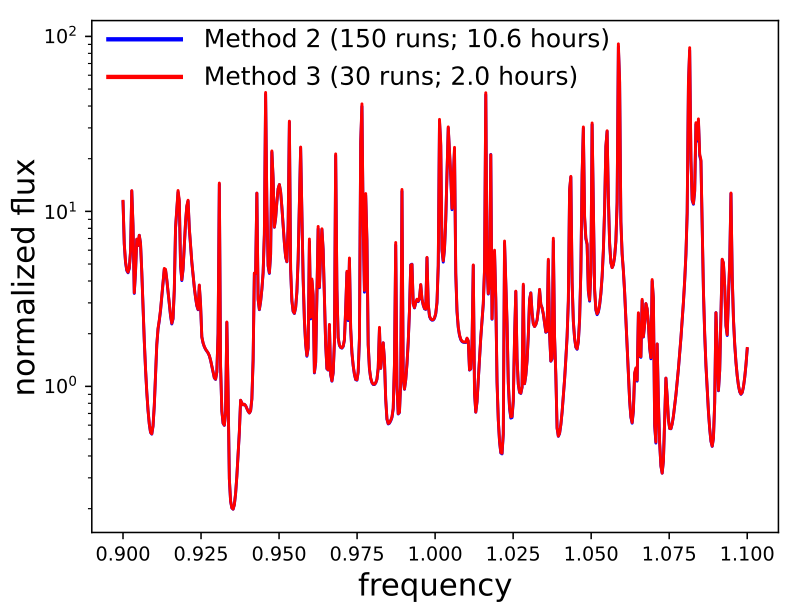
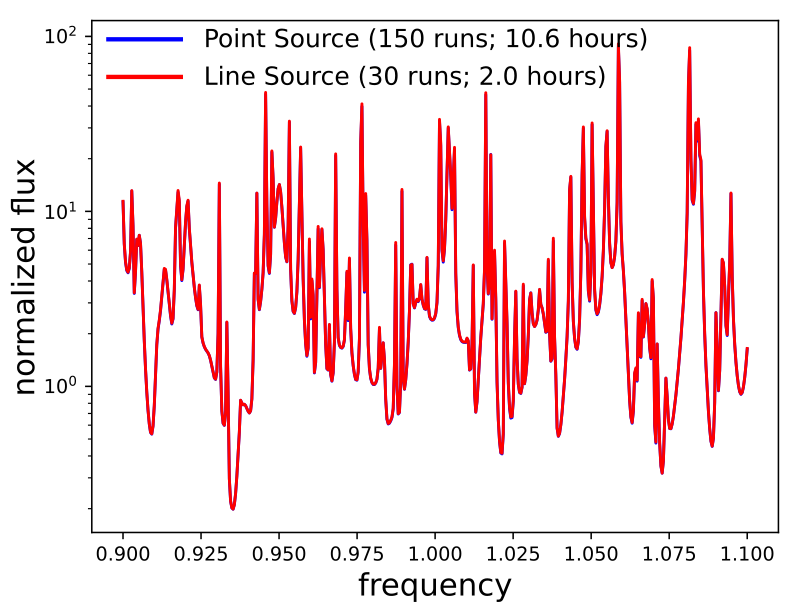
minor updates to docs

Changed region(s): [[0.2403, 0.0297, 0.811, 0.1485]]

diff --git a/doc/docs/FAQ.md b/doc/docs/FAQ.md
@@ -77,7 +77,7 @@ If you are worried about this, then you are probably setting up your calculation
 
 ### How is the source current defined?
 
-The source current in Meep is defined as a [free charge current **J** in Maxwell's equations](Introduction.md#maxwells-equations). Meep does not simulate the driving force behind this free charge current, nor does the current have to be placed in a conductor. Specifying a current means that somehow you are shaking a [charge](https://en.wikipedia.org/wiki/Electric_charge) at that point (by whatever means, Meep doesn't care) and you want to know the [resulting fields](#how-does-the-current-amplitude-relate-to-the-resulting-field-amplitude). In a linear system, multiplying J by 2 results in multiplying the fields by 2.
+The source current in Meep is defined as a [free charge current $\mathcal{J}$ in Maxwell's equations](Introduction.md#maxwells-equations). Meep does not simulate the driving force behind this free charge current, nor does the current have to be placed in a conductor. Specifying a current means that somehow you are shaking a [charge](https://en.wikipedia.org/wiki/Electric_charge) at that point (by whatever means, Meep doesn't care) and you want to know the [resulting fields](#how-does-the-current-amplitude-relate-to-the-resulting-field-amplitude). In a linear system, multiplying $\mathcal{J}$ by 2 results in multiplying the fields by 2.
 
 In the [interface](Python_User_Interface.md#source), the source currents are labeled $E_x$ or $H_y$ etc. according to what components of the electric/magnetic fields they correspond to.
 
@@ -223,13 +223,13 @@ Note: any real-valued signal consists of both positive and negative frequency co
 
 ### How do I compute the effective index of an eigenmode of a lossy waveguide?
 
-To compute the [effective index](https://www.rp-photonics.com/effective_refractive_index.html), you will need to first compute the *complex* ω (the loss in time) for a *real* β (the propagation constant) and then convert this quantity into a loss in space (*complex* β at a *real* ω) by dividing by the group velocity v<sub>g</sub>. This procedure is described in more detail below.
+To compute the [effective index](https://www.rp-photonics.com/effective_refractive_index.html), you will need to first compute the *complex* $\omega$ (the loss in time) for a *real* $\beta$ (the propagation constant) and then convert this quantity into a loss in space (*complex* $\beta$ at a *real* $\omega$) by dividing by the group velocity $v_g$. This procedure is described in more detail below.
 
-To obtain the loss in time, you make your computational cell a cross-section of your waveguide (i.e. 2d for a waveguide with constant cross-section), and set Bloch-periodic boundary conditions via the `k_point` input variable &mdash; this specifies your (real) β. You then treat it exactly the same as a [resonant-cavity problem](Python_Tutorials/Resonant_Modes_and_Transmission_in_a_Waveguide_Cavity.md#resonant-modes): you excite the system with a short pulse source, monitor the field at some point, and then analyze the result with [`Harminv`](Python_User_Interface.md#harminv); all of which is done if you call `run_kpoints`. This will give you the complex ω at the given β, where the imaginary part is the loss rate in time. Note: the loss in a uniform waveguide, with no absorption or disorder, is zero, even in the discretized system.
+To obtain the loss in time, you make your computational cell a cross-section of your waveguide (i.e. 2d for a waveguide with constant cross-section), and set Bloch-periodic boundary conditions via the `k_point` input variable &mdash; this specifies your (real) $\beta$. You then treat it exactly the same as a [resonant-cavity problem](Python_Tutorials/Resonant_Modes_and_Transmission_in_a_Waveguide_Cavity.md#resonant-modes): you excite the system with a short pulse source, monitor the field at some point, and then analyze the result with [`Harminv`](Python_User_Interface.md#harminv); all of which is done if you call `run_kpoints`. This will give you the complex $\omega$ at the given $\beta$, where the imaginary part is the loss rate in time. Note: the loss in a uniform waveguide, with no absorption or disorder, is zero, even in the discretized system.
 
-That is, you have ω(β<sub>r</sub>) = ω<sub>r</sub>+iω<sub>i</sub> where the subscripts r and i denote real and imaginary parts. Now, what you want to do is to get the complex β at the real ω which is given by: β(ω<sub>r</sub>)=β<sub>r</sub>-iω<sub>i</sub>/v<sub>g</sub>+O(ω<sub>i</sub><sup>2</sup>). That is, to first order in the loss, the imaginary part of β (the propagation loss) at the real frequency ω<sub>r</sub> is given just by dividing ω<sub>i</sub> by the group velocity v<sub>g</sub>=dω/dβ, which you can [get from the dispersion relation in the absence of loss](#how-do-i-compute-the-group-velocity-of-a-mode). This relationship is just a consequence of the first-order Taylor expansion of the dispersion relation ω(β) in the complex plane.
+That is, you have $\omega(\beta_r) = \omega_r + i\omega_i$ where the subscripts $r$ and $i$ denote real and imaginary parts. Now, what you want to do is to get the complex $\beta$ at the real $\omega$ which is given by: $\beta(\omega_r) = \beta_r - i\omega_i/v_g + \mathcal{O}(\omega_i^2)$. That is, to first order in the loss, the imaginary part of $\beta$ (the propagation loss) at the real frequency $\omega_r$ is given just by dividing $\omega_i$ by the group velocity $v_g = \frac{d\omega}{d\beta}$, which you can [get from the dispersion relation in the absence of loss](#how-do-i-compute-the-group-velocity-of-a-mode). This relationship is just a consequence of the first-order Taylor expansion of the dispersion relation $\omega(\beta)$ in the complex plane.
 
-This analysis is only valid if the loss is small, i.e. ω<sub>i</sub> << ω<sub>r</sub>. This should always be the case in any reasonable waveguide, where the light can travel for many wavelengths before dissipating/escaping. If you have extremely large losses so that it only propagates for a few wavelengths or less, then you would have to treat the problem differently &mdash; but in this case, the whole concept of a "waveguide mode" is not clearly defined.
+This analysis is only valid if the loss is small, i.e. $\omega_i \ll \omega_r$. This should always be the case in any reasonable waveguide, where the light can travel for many wavelengths before dissipating/escaping. If you have extremely large losses so that it only propagates for a few wavelengths or less, then you would have to treat the problem differently &mdash; but in this case, the whole concept of a "waveguide mode" is not clearly defined.
 
 ### How do I compute the group velocity of a mode?
 
@@ -243,7 +243,7 @@ For a linear system, you can use a [ContinuousSource](Python_User_Interface.md#c
 
 ### Why are the fields not being absorbed by the PML?
 
-The decay coefficient of the fields within any PML contains a cos(θ) factor where θ is the incidence angle (θ=0° is normal incidence). The decay therefore becomes *slower* as glancing incidence (θ=90°) is approached. This is true in the continuum limit and can be demonstrated by verifying that the reflections from the PML do *not* change with resolution. Otherwise, if the reflection decreases with increasing resolution then it may be due to transition reflections (i.e., the impedance mismatch at the PML interface) which can also be reduced by making the PML thicker instead of increasing the resolution. Transition reflections also increase as glancing incidence is approached, because at glancing incidence the phase-velocity mismatch between incident and reflected waves goes to zero as described in [Optics Express, Vol. 16, pp. 11376-92, 2008](http://www.opticsinfobase.org/abstract.cfm?URI=oe-16-15-11376). Glancing-angle fields commonly arise in simulations where one direction is periodic and the other is terminated by a PML (such as in [diffraction gratings](Python_Tutorials/Mode_Decomposition.md#diffraction-spectrum-of-a-binary-grating)), in which case you can have spurious solutions that travel *parallel* to the PML interface; a workaround is to use a thicker non-PML [absorber](Python_User_Interface.md#absorber). This is demonstrated in the figure below by the glancing-angle fields remaining in the cell after a [source planewave](Python_Tutorials/Eigenmode_Source.md#planewaves-in-homogeneous-media) at 45° has long been turned off: the PML (left inset) is unable to absorb these fields unlike the absorber (right inset).
+The decay coefficient of the fields within any PML contains a $\cos(\theta)$ factor where $\theta$ is the incidence angle ($\theta=0^{\circ}$ is normal incidence). The decay therefore becomes *slower* as glancing incidence ($\theta=90^{\circ}$) is approached. This is true in the continuum limit and can be demonstrated by verifying that the reflections from the PML do *not* change with resolution. Otherwise, if the reflection decreases with increasing resolution then it may be due to transition reflections (i.e., the impedance mismatch at the PML interface) which can also be reduced by making the PML thicker instead of increasing the resolution. Transition reflections also increase as glancing incidence is approached, because at glancing incidence the phase-velocity mismatch between incident and reflected waves goes to zero as described in [Optics Express, Vol. 16, pp. 11376-92, 2008](http://www.opticsinfobase.org/abstract.cfm?URI=oe-16-15-11376). Glancing-angle fields commonly arise in simulations where one direction is periodic and the other is terminated by a PML (such as in [diffraction gratings](Python_Tutorials/Mode_Decomposition.md#diffraction-spectrum-of-a-binary-grating)), in which case you can have spurious solutions that travel *parallel* to the PML interface; a workaround is to use a thicker non-PML [absorber](Python_User_Interface.md#absorber). This is demonstrated in the figure below by the glancing-angle fields remaining in the cell after a [source planewave](Python_Tutorials/Eigenmode_Source.md#planewaves-in-homogeneous-media) at 45° has long been turned off: the PML (left inset) is unable to absorb these fields unlike the absorber (right inset).
 
 <center>
 ![](images/pml_glancing_field.png)

diff --git a/doc/docs/Python_Tutorials/Basics.md b/doc/docs/Python_Tutorials/Basics.md
@@ -899,7 +899,7 @@ scatt:, 8.2215435272741395 (meep), 8.3429545590438750 (theory)
 Absorbed Power Density Map of a Lossy Cylinder
 ----------------------------------------------
 
-The `dft_flux` routines (`add_flux`) described in the previous examples compute the *total* power in a given region (`FluxRegion`). It is also possible to compute the *local* (i.e., position-dependent) absorbed power density in a dispersive (lossy) material. This quantity is useful for obtaining a spatial map of the photon absorption. The absorbed power density is defined as $$\mathrm{Re}\, \left[ {\mathbf{E}^* \cdot \frac{d\mathbf{P}}{dt}} \right]$$ where $\mathbf{P}$ is the total polarization field. In the Fourier (frequency) domain with time-harmonic fields, this expression is $$\mathrm{Re}\, \left[ {\mathbf{E}^* \cdot (-i \omega \mathbf{P})} \right] = \omega\, \mathrm{Im}\, \left[ {\mathbf{E}^* \cdot \mathbf{P}} \right]$$ where $\mathbf{E}^* \cdot \mathbf{P}$ denotes the dot product of the complex conjugate of $\mathbf{E}$ with $\mathbf{P}$. However, since $\mathbf{D}=\mathbf{E}+\mathbf{P}$, this is equivalent to $$ \omega\, \mathrm{Im}\, \left[ {\mathbf{E}^* \cdot (\mathbf{D}-\mathbf{E})} \right] = \omega\, \mathrm{Im}\, \left[ {\mathbf{E}^* \cdot \mathbf{D}} \right]$$ since $\mathbf{E}^* \cdot \mathbf{E} = |\mathbf{E}|^2$ is purely real. Calculating this quantity involves two steps: (1) compute the Fourier-transformed $\mathbf{E}$ and $\mathbf{D}$ fields in a region via the `dft_fields` feature and (2) in post processing, compute $\omega\, \mathrm{Im}\, \left[ {\mathbf{E}^* \cdot \mathbf{D}} \right]$. This approach only works when the complex permittivity is specified using the [Drude-Lorentzian susceptibility](../Python_User_Interface.md#susceptibility). [Conductivity](Materials.md#conductivity-and-complex) is not supported.
+The `dft_flux` routines (`add_flux`) described in the previous examples compute the *total* power in a given region (`FluxRegion`). It is also possible to compute the *local* (i.e., position-dependent) absorbed power density in a dispersive (lossy) material. This quantity is useful for obtaining a spatial map of the photon absorption. The absorbed power density is defined as $$\mathrm{Re}\, \left[ {\mathbf{E}^* \cdot \frac{d\mathbf{P}}{dt}} \right]$$ where $\mathbf{P}$ is the total polarization field. In the Fourier (frequency) domain with time-harmonic fields, this expression is $$\mathrm{Re}\, \left[ {\mathbf{E}^* \cdot (-i \omega \mathbf{P})} \right] = \omega\, \mathrm{Im}\, \left[ {\mathbf{E}^* \cdot \mathbf{P}} \right]$$ where $\mathbf{E}^* \cdot \mathbf{P}$ denotes the dot product of the complex conjugate of $\mathbf{E}$ with $\mathbf{P}$. However, since $\mathbf{D}=\mathbf{E}+\mathbf{P}$, this is equivalent to $$ \omega\, \mathrm{Im}\, \left[ {\mathbf{E}^* \cdot (\mathbf{D}-\mathbf{E})} \right] = \omega\, \mathrm{Im}\, \left[ {\mathbf{E}^* \cdot \mathbf{D}} \right]$$ since $\mathbf{E}^* \cdot \mathbf{E} = |\mathbf{E}|^2$ is purely real. Calculating this quantity involves two steps: (1) compute the Fourier-transformed $\mathbf{E}$ and $\mathbf{D}$ fields in a region via the `dft_fields` feature and (2) in post processing, compute $\omega\, \mathrm{Im}\, \left[ {\mathbf{E}^* \cdot \mathbf{D}} \right]$. This approach only works when the complex permittivity is specified using the [Drude-Lorentzian susceptibility](../Python_User_Interface.md#susceptibility). [Conductivity](../Materials.md#conductivity-and-complex) is not supported.
 
 This tutorial example involves computing the absorbed power density for a two-dimensional cylinder (radius: 1 μm) of silicon dioxide (SiO<sub>2</sub>, from the [materials library](../Materials.md#materials-library)) at a wavelength of 1 μm given an incident $E_z$-polarized planewave. (The [attenuation length](https://en.wikipedia.org/wiki/Refractive_index#Complex_refractive_index) of SiO<sub>2</sub> at this wavelength is $\lambda/\mathrm{Im}\, \sqrt{\varepsilon}$ = ~3000 μm.) We will also verify that the total power absorbed by the cylinder obtained by integrating the absorbed power density over the entire cylinder is equivalent to the same quantity computed using the alternative method involving a closed, four-sided `dft_flux` box (Poynting's theorem).
 

diff --git a/doc/docs/Scheme_Tutorials/Basics.md b/doc/docs/Scheme_Tutorials/Basics.md
@@ -886,7 +886,7 @@ scatt:, 8.2215436693775636
 Absorbed Power Density Map of a Lossy Cylinder
 ----------------------------------------------
 
-The `dft-flux` routines (`add-flux`) described in the previous examples compute the *total* power in a given region (`flux-region`). It is also possible to compute the *local* (i.e., position-dependent) absorbed power density in a dispersive (lossy) material. This quantity is useful for obtaining a spatial map of the photon absorption. The absorbed power density is defined as $$\mathrm{Re}\, \left[ {\mathbf{E}^* \cdot \frac{d\mathbf{P}}{dt}} \right]$$ where $\mathbf{P}$ is the total polarization field. In the Fourier (frequency) domain with time-harmonic fields, this expression is $$\mathrm{Re}\, \left[ {\mathbf{E}^* \cdot (-i \omega \mathbf{P})} \right] = \omega\, \mathrm{Im}\, \left[ {\mathbf{E}^* \cdot \mathbf{P}} \right]$$ where $\mathbf{E}^* \cdot \mathbf{P}$ denotes the dot product of the complex conjugate of $\mathbf{E}$ with $\mathbf{P}$. However, since $\mathbf{D}=\mathbf{E}+\mathbf{P}$, this is equivalent to $$ \omega\, \mathrm{Im}\, \left[ {\mathbf{E}^* \cdot (\mathbf{D}-\mathbf{E})} \right] = \omega\, \mathrm{Im}\, \left[ {\mathbf{E}^* \cdot \mathbf{D}} \right]$$ since $\mathbf{E}^* \cdot \mathbf{E} = |\mathbf{E}|^2$ is purely real. Calculating this quantity involves two steps: (1) compute the Fourier-transformed $\mathbf{E}$ and $\mathbf{D}$ fields in a region via the `dft-fields` feature and (2) in post processing, compute $\omega\, \mathrm{Im}\, \left[ {\mathbf{E}^* \cdot \mathbf{D}} \right]$. This approach only works when the complex permittivity is specified using the [Drude-Lorentzian susceptibility](../Scheme_User_Interface.md#susceptibility). [Conductivity](Materials.md#conductivity-and-complex) is not supported.
+The `dft-flux` routines (`add-flux`) described in the previous examples compute the *total* power in a given region (`flux-region`). It is also possible to compute the *local* (i.e., position-dependent) absorbed power density in a dispersive (lossy) material. This quantity is useful for obtaining a spatial map of the photon absorption. The absorbed power density is defined as $$\mathrm{Re}\, \left[ {\mathbf{E}^* \cdot \frac{d\mathbf{P}}{dt}} \right]$$ where $\mathbf{P}$ is the total polarization field. In the Fourier (frequency) domain with time-harmonic fields, this expression is $$\mathrm{Re}\, \left[ {\mathbf{E}^* \cdot (-i \omega \mathbf{P})} \right] = \omega\, \mathrm{Im}\, \left[ {\mathbf{E}^* \cdot \mathbf{P}} \right]$$ where $\mathbf{E}^* \cdot \mathbf{P}$ denotes the dot product of the complex conjugate of $\mathbf{E}$ with $\mathbf{P}$. However, since $\mathbf{D}=\mathbf{E}+\mathbf{P}$, this is equivalent to $$ \omega\, \mathrm{Im}\, \left[ {\mathbf{E}^* \cdot (\mathbf{D}-\mathbf{E})} \right] = \omega\, \mathrm{Im}\, \left[ {\mathbf{E}^* \cdot \mathbf{D}} \right]$$ since $\mathbf{E}^* \cdot \mathbf{E} = |\mathbf{E}|^2$ is purely real. Calculating this quantity involves two steps: (1) compute the Fourier-transformed $\mathbf{E}$ and $\mathbf{D}$ fields in a region via the `dft-fields` feature and (2) in post processing, compute $\omega\, \mathrm{Im}\, \left[ {\mathbf{E}^* \cdot \mathbf{D}} \right]$. This approach only works when the complex permittivity is specified using the [Drude-Lorentzian susceptibility](../Scheme_User_Interface.md#susceptibility). [Conductivity](../Materials.md#conductivity-and-complex) is not supported.
 
 This tutorial example involves computing the absorbed power density for a two-dimensional cylinder (radius: 1 μm) of silicon dioxide (SiO<sub>2</sub>, from the [materials library](../Materials.md#materials-library)) at a wavelength of 1 μm given an incident $E_z$-polarized planewave. (The [attenuation length](https://en.wikipedia.org/wiki/Refractive_index#Complex_refractive_index) of SiO<sub>2</sub> at this wavelength is $\lambda/\mathrm{Im}\, \sqrt{\varepsilon}$ = ~3000 μm.) We will also verify that the total power absorbed by the cylinder obtained by integrating the absorbed power density over the entire cylinder is equivalent to the same quantity computed using the alternative method involving a closed, four-sided `dft-flux` box (Poynting's theorem).
 

diff --git a/doc/docs/Python_Tutorials/Custom_Source.md b/doc/docs/Python_Tutorials/Custom_Source.md
@@ -174,7 +174,7 @@ Results for Method 1 for three different numbers of trials/iterations (10, 50, a
 ![](../images/stochastic_emitter_trials.png)
 </center>
 
-The next figure shows a comparison of the normalized radiated flux for Method 1 (500 trials) and 2 (20 runs; 10 runs each for the flat and textured surface). The results show good agreement over the entire bandwidth spectrum. The Method 1 results required almost *four days* of compute time using an Intel Xeon processor with two single-threaded cores at 3.8 GHz whereas the Method 2 results were obtained in 24 minutes.    In general, deterministic approaches tend to be more efficient than brute-force Monte-Carlo.
+The next figure shows a comparison of the normalized radiated flux for Method 1 (500 trials) and 2 (20 runs; 10 runs each for the flat and textured surface). The results show good agreement over the entire bandwidth spectrum. The Method 1 results (labeled "Non Deterministic") required almost *four days* of compute time using an Intel Xeon processor with two single-threaded cores at 3.8 GHz whereas the Method 2 results (labeled "Deterministic") were obtained in 24 minutes. In general, deterministic approaches tend to be more efficient than brute-force Monte-Carlo.
 
 <center>
 ![](../images/stochastic_emitter_normalized_flux_comparison.png)
@@ -350,7 +350,7 @@ plt.legend()
 plt.show()
 ```
 
-Results for Method 2 and 3 are shown in the following figure. The agreement is good but there is a significant difference in the runtime. Method 2 involves $N=75$ simulations each for the flat and textured surface for a total of 150 runs which required 10.6 hours. Method 3 involves $M=15$ simulations for the flat/textured surface for a total of 30 runs which required just 2.0 hours.
+Results for Method 2 and 3 are shown in the following figure. The agreement is good but there is a significant difference in the runtime. Method 2 (labeled "Point Source") involves $N=75$ simulations each for the flat and textured surface for a total of 150 runs which required 10.6 hours. Method 3 (labeled "Line Source") involves $M=15$ simulations for the flat/textured surface for a total of 30 runs which required just 2.0 hours.
 
 <center>
 ![](../images/stochastic_emitter_line_normalized_flux_comparison.png)

diff --git a/doc/docs/Python_User_Interface.md b/doc/docs/Python_User_Interface.md
@@ -3509,7 +3509,7 @@ plt.show()
 
   # x-directed Poynting flux through monitor from frequency-domain fields
   monitor        = mp.FluxRegion(center=mon_center, size=mon_size)
-  dft_cell       = sim.add_flux(freq, freq, 1, monitor)
+  dft_cell       = sim.add_flux(freq, 0, 1, monitor)
   sim.run(...)    # timestep until DFTs converged
   (Ey,Ez,Hy,Hz)  = [sim.get_dft_array(dft_cell,c,0) for c in [mp.Ey, mp.Ez, mp.Hy, mp.Hz]]
   (x,y,z,w)      = sim.get_array_metadata(dft=dft_cell)
